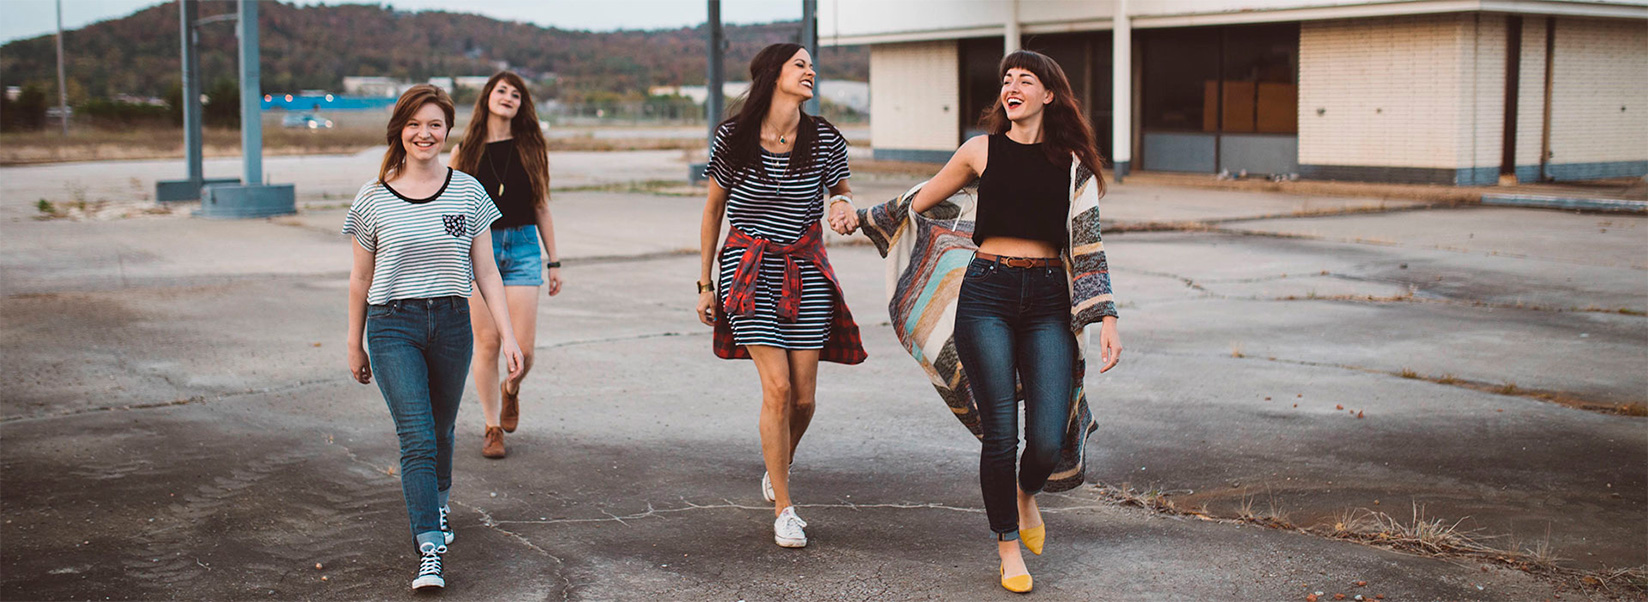
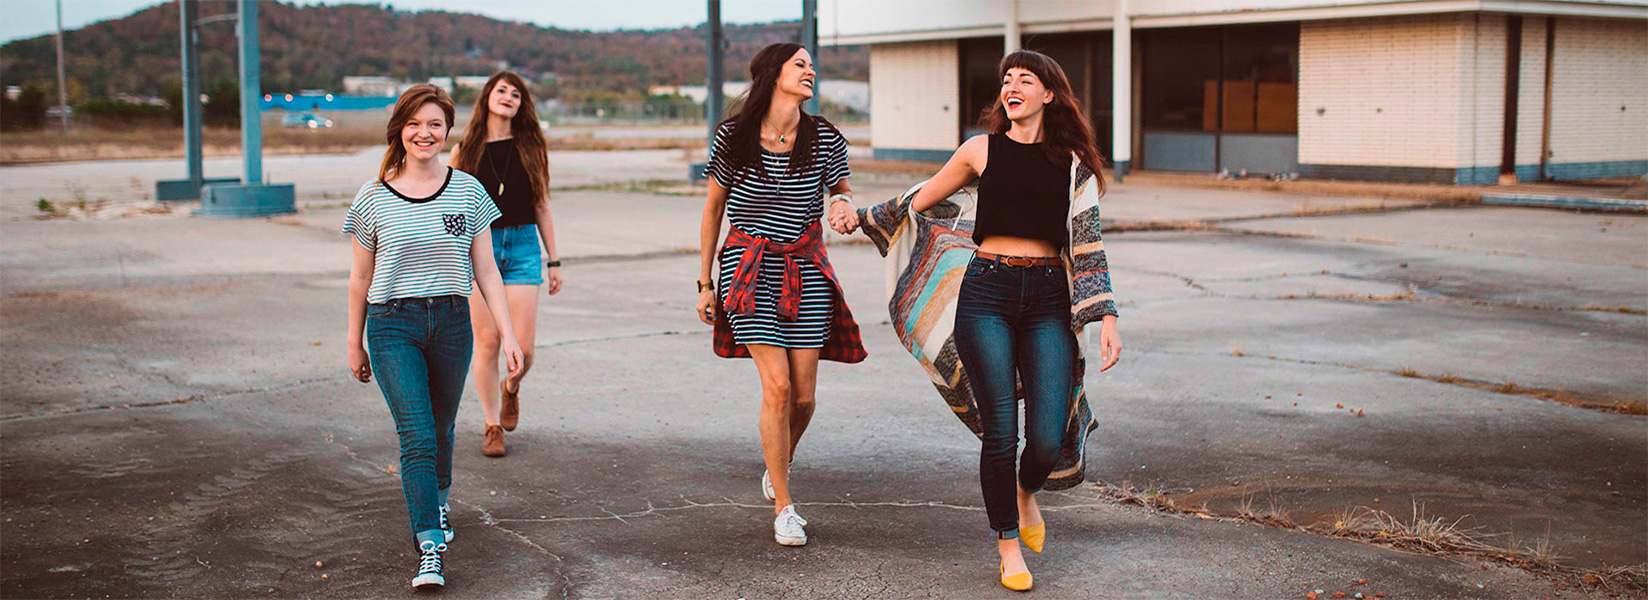
fix

diff --git a/html-css/module-05/index.html b/html-css/module-05/index.html
@@ -42,7 +42,7 @@
             </div>
             <ul>
                 <li class="slide">
-                    <img src="img/slide4.jpg" alt="img-slide" width="1648" height="602">
+                    <img src="img/slide4.jpg" alt="img-slide" width="1648" height="600">
                     <div class="content">
                         <h2>Affordable Paris tours</h2>
                         <h3>City tours/tourtickets/tour guides</h3>
